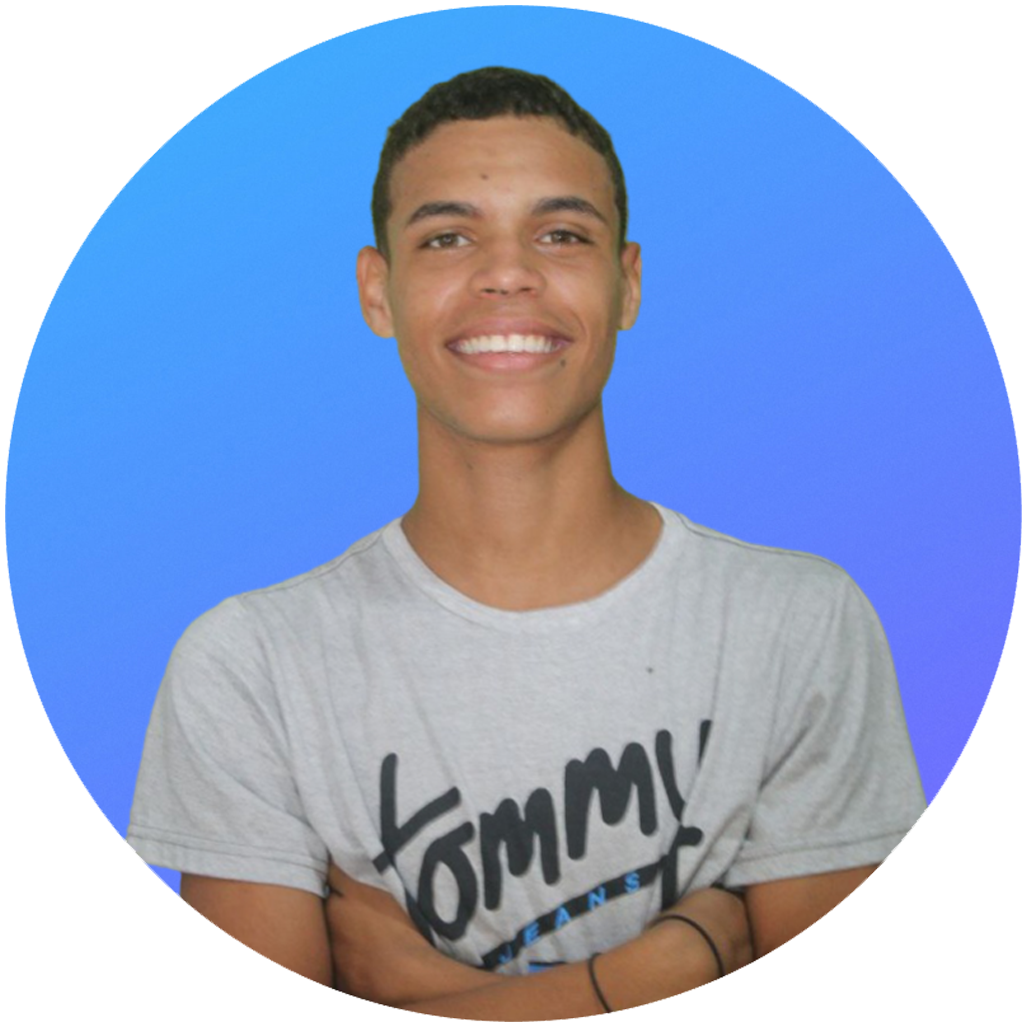
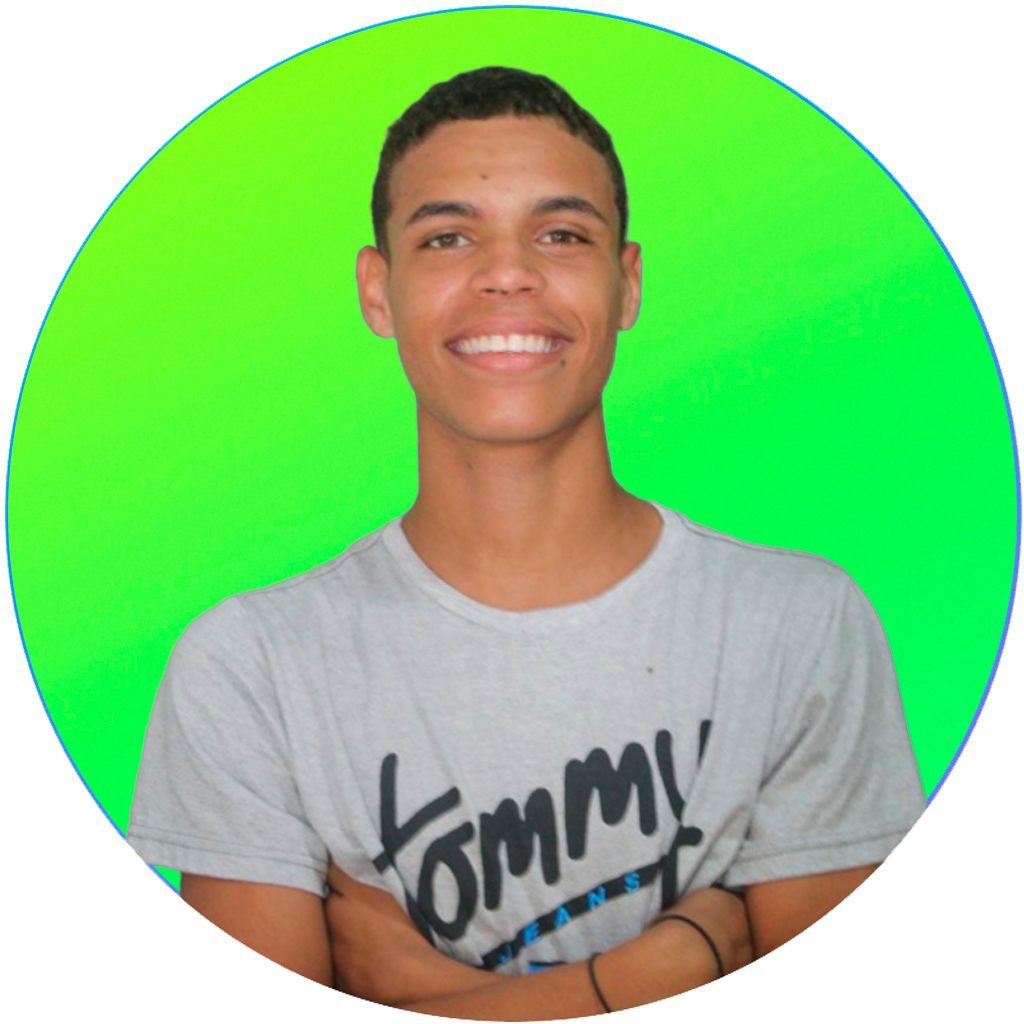
Atualização da cor e responsividade

diff --git a/css/style.css b/css/style.css
@@ -1,78 +1,97 @@
-*{
+* {
     margin: 0;
     padding: 0;
+    box-sizing: border-box;
 }
-html{
+
+html {
    height: 100%;
 }
-body{
-    font-family: 'relaway', 'sans-serif';
+
+body {
+    font-family: 'Raleway', 'sans-serif';
     color: white;
-    background: linear-gradient(0deg, rgba(76,105,64,1)11%, rgba(2,0,36,1)88%);
+    background: rgb(2,0,36);
+    background: linear-gradient(0deg, rgba(2,0,36,1) 1%, rgba(76,105,64,1) 88%);
+    margin: 0;
+    padding: 0;
+    overflow-x: hidden;
 }
+
 .avatar {
     width: 200px;
-    border-radius: 300px;
-    border: 3px solid rgb(97, 93, 93);
+    border-radius: 50%;
+    border: 3px solid #fff;
     box-shadow: 0 0 30px rgb(14, 13, 13);
 }
-.logo-inicial{
+
+.logo-inicial {
     font-size: 50px;
-    font-family: 'architects daughter', 'Cursive';
+    font-family: 'Architects Daughter', 'Cursive';
 }
-h1{
-    font-family: 'Architects daughter', 'Cursive';
-    font-weight: 100px;
+
+h1 {
+    font-family: 'Architects Daughter', 'Cursive';
+    font-weight: 100;
     font-size: 24px;
     margin-bottom: 2px;
 }
-h2{
+
+h2 {
     font-size: 16px;
-    font-weight: 10px;
+    font-weight: 100;
     margin-top: 2px;
 }
-.profile{
+
+.profile {
     text-align: center;
     margin-top: 20px;
 }
-.social{
+
+.social {
     display: flex;
     justify-content: space-around;
     list-style: none;
     margin: 20px 0;
-    margin-left: 500px;
-    margin-right: 500px;
+    padding: 0 30%;
 }
-.social img{
+
+.social img {
     width: 40px;
 }
-.link-list{
+
+.link-list {
     list-style: none;
     text-align: center;
+    padding: 0;
 }
-.link-list li{
+
+.link-list li {
     margin: 10px 0;
 }
-.link-list li a{
+
+.link-list li a {
     display: block;
     background: white;
     padding: 15px 20px;
-    border-radius: 4px;
+    border-radius: 50px;
     text-decoration: none;
     color: rgb(40, 102, 153);
     font-weight: bold;
-    border-radius: 50px;
     border: 3px solid white;
     box-shadow: 0 0 30px rgb(8,8,8);
-    margin-left: 550px;
-    margin-right: 550px;
+    margin: 0 auto;
+    width: calc(100% - 20px);
+    max-width: 500px;
 }
-.links-list li a span{
+
+.link-list li a span {
     color: gray;
     display: block;
     margin-top: 10px;
 }
-.footer{
+
+.footer {
     background-color: #191919;
     color: white;
     padding: 8px;
@@ -80,35 +99,73 @@ h2{
     font-size: 12px;
     margin-top: 100px;
 }
-.footer li{
+
+.footer li {
     text-decoration: none;
     color: white;
 }
-@media (max-width: 768px){
-    body{
+
+@media (max-width: 768px) {
+    body {
         font-size: 14px;
     }
-    h1{
+
+    h1 {
         font-size: 20px;
     }
-    h2{
+
+    h2 {
         font-size: 14px;
     }
-    .avatar{
+
+    .avatar {
         width: 80px;
     }
-    .social{
+
+    .social {
         margin-left: 5px;
         margin-right: 5px;
+        padding: 0 2%;
     }
-    .link-list li{
+
+    .link-list li {
         margin: 5px 0;
     }
-    .link-list li a{
+
+    .link-list li a {
         margin-left: 5px;
         margin-right: 5px;
+        width: calc(100% - 10px);
     }
-    footer{
+
+    .footer {
         margin-top: 50px;
+    }
+}
+
+@media (max-width: 480px) {
+    .logo-inicial {
+        font-size: 30px;
+    }
+
+    .avatar {
+        width: 60px;
+    }
+
+    h1 {
+        font-size: 18px;
+    }
+
+    h2 {
+        font-size: 12px;
+    }
+
+    .social img {
+        width: 30px;
+    }
+
+    .link-list li a {
+        padding: 10px 15px;
+        font-size: 14px;
     }
 }
